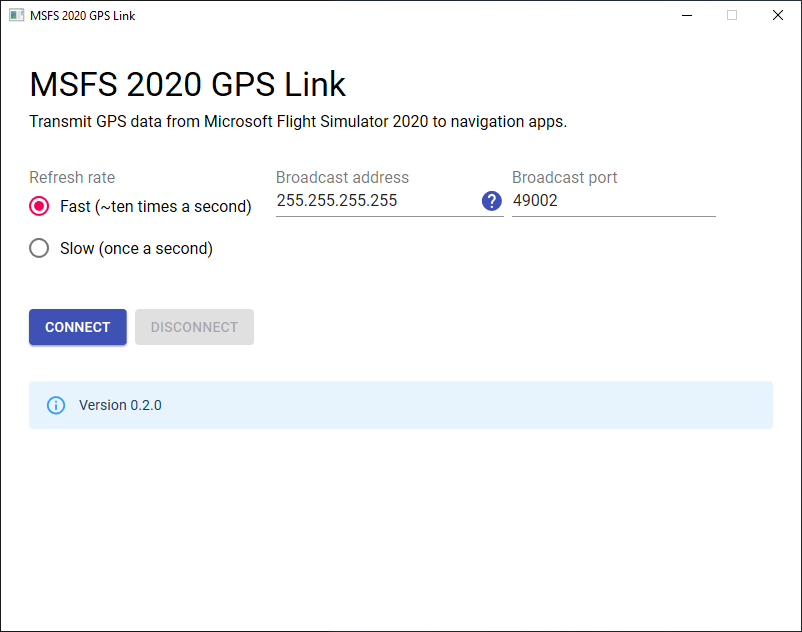
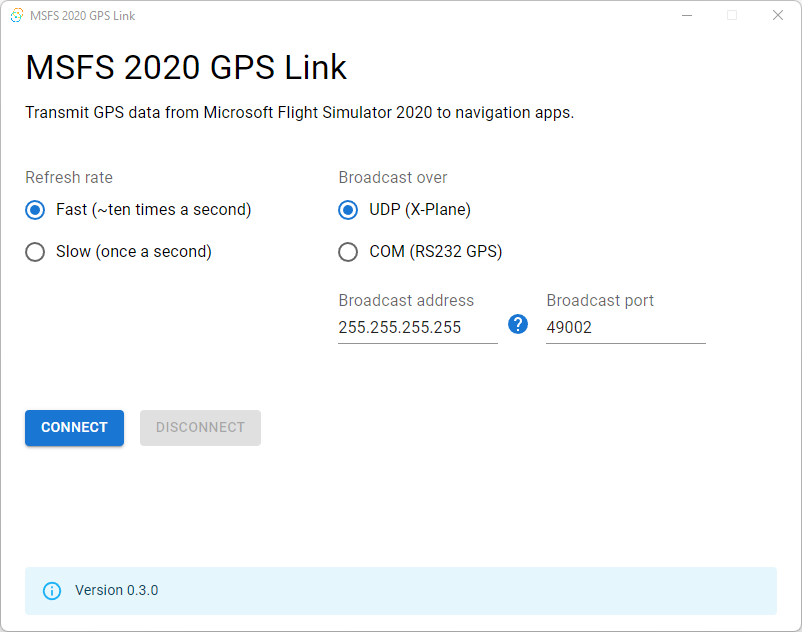
Announce v0.3.0

diff --git a/README.md b/README.md
@@ -47,7 +47,7 @@ Scroll to the bottom and you should see `SIMULATOR STATUS` showing an `amber`sta
 
 Contributions are welcome and encouraged! Please read [CONTRIBUTING.md][contributing_url].
 
-[latest_release]: https://github.com/mihai-dinculescu/msfs-2020-gps-link/releases/download/v0.2.5/msfs-2020-gps-link-v0.2.5.zip
+[latest_release]: https://github.com/mihai-dinculescu/msfs-2020-gps-link/releases/download/v0.3.0/msfs-2020-gps-link-v0.3.0.zip
 [latest_release_badge]: https://img.shields.io/github/release/mihai-dinculescu/msfs-2020-gps-link.svg
 [downloads_badge]: https://img.shields.io/github/downloads/mihai-dinculescu/msfs-2020-gps-link/total.svg
 [ci_badge]: https://github.com/mihai-dinculescu/msfs-2020-gps-link/workflows/CI/badge.svg?branch=main
